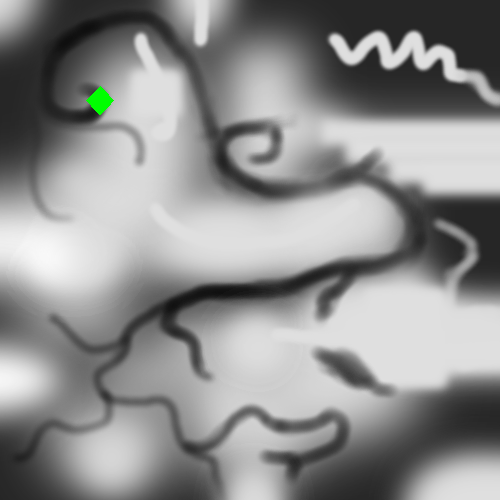
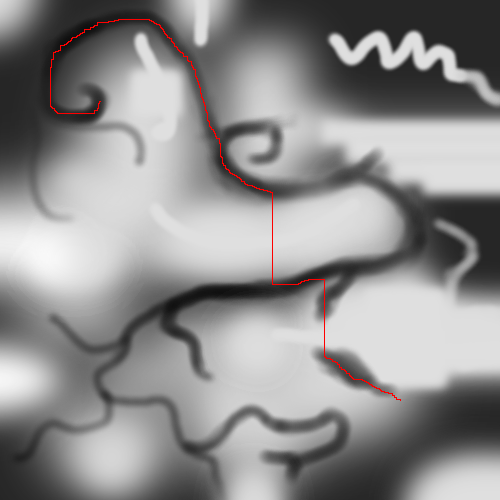
Made the code just like the psuedocode from assignment 1

diff --git a/Assignment2/Assignment2.py b/Assignment2/Assignment2.py
@@ -49,9 +49,9 @@ def breadth_first_search(startState, goalState):
             print 'Iterations',i
             return s
 
-        setPixelGreen(s.x, s.y) 
-        if i % 5000 == 0 or i==1:
-            ImageObject.save('path.png', None)
+        # setPixelGreen(s.x, s.y) 
+        # if i % 5000 == 0 or i==1:
+            # ImageObject.save('path.png', None)
 
         up = MyState(None, s, s.x, s.y - 1)
         down = MyState(None, s, s.x, s.y + 1)
@@ -62,21 +62,17 @@ def breadth_first_search(startState, goalState):
 
         for c in borders:
             if not (c.x < 0 or c.x >= 500) and not (c.y < 0 or c.y >= 500):
-                # new_cost = cost_so_far[current] + graph.cost(current, next)
                 new_cost = s.cost + getGreenColor(c.x, c.y) 
-                if (c.x, c.y) not in explored or ((c.x,c.y) in explored and new_cost < explored[(c.x,c.y)].cost):
+                if (c.x, c.y) in explored:
+                    if ((c.x,c.y) in explored and new_cost < explored[(c.x,c.y)].cost):
+                        c.cost = new_cost
+                        c.parent = s
+                else:
                     c.parent = s
-                    # c.cost = s.cost + getGreenColor(c.x, c.y) 
-                    c.cost = new_cost + h(c.x, c.y)
-                    heapq.heappush(q, (c.cost, c))
-
+                    c.cost = new_cost
+                    heapq.heappush(q, (c.cost+h(c.x,c.y), c))
                     explored[(c.x, c.y)] = c;
-                # else:
-                    # if new_cost < explored[(c.x,c.y)].cost:
-                    #     print 'BOOYA', new_cost, explored[(c.x,c.y)].cost
-                    # else:
-                    #     print new_cost, explored[(c.x,c.y)].cost
-                    # time.sleep(.1)
+               
         # time.sleep(5)
     raise Exception("There is no path to the goal")
 
@@ -88,7 +84,7 @@ def setPixelRed(x, y):
     ImageObject.putpixel((x, y), (255, 0, 0, 255))
 
 def h(x,y):
-    return abs(x-400) + abs(y-400)
+    return  1 * (abs(400-x) + abs(400-y))
 
 def setPixelGreen(x, y):
     ImageObject.putpixel((x, y), (0, 255, 0, 255))
